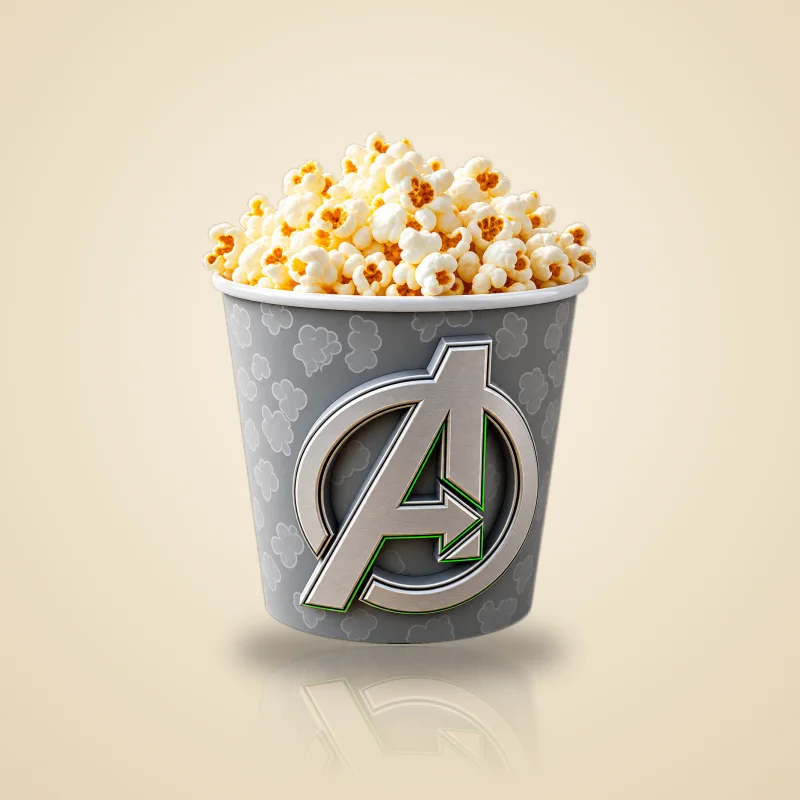
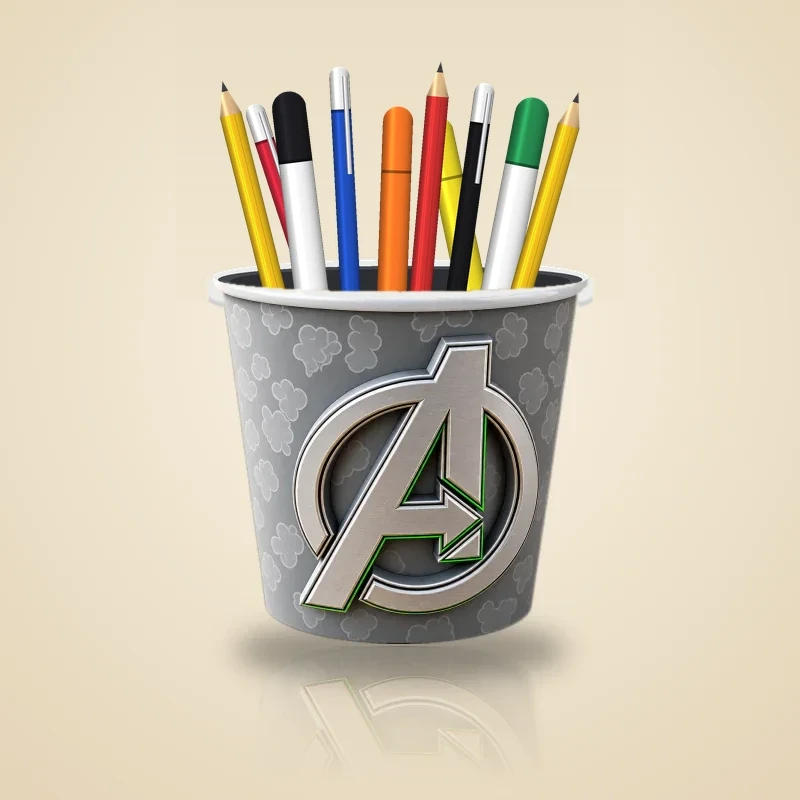
تحويل AVENGERS Popcorn Bucket إلى كوب أقلام أفنجرز وتخفيض سعره
- الاسم: كوب أقلام أفنجرز (AVENGERS Pen Holder)، القسم: إكسسوارات المكتب
- الصورة: أقلام بدل الفشار
- السعر: 79 مفرد / 62 جملة (كان 101/78، ويظهر مشطوبًا)

Claude-Session: https://claude.ai/code/session_017P9QyA7v2oMn6s2vRLUk4B

Changed region(s): [[0.25, 0.0625, 0.75, 0.375]]

diff --git a/index.html b/index.html
@@ -356,8 +356,8 @@ const COLORS=[["كما بالصورة",null],["أبيض","#f3f1ec"],["أسود",
 const OUT=new Set([9]); /* colours not in stock right now (9 = purple) */
 const DUCK="تعليقة سيارة أو ديكور طبلون", KS="ميدالية مفاتيح وستاند جوال", XB="إكسسوار مكينة xBloom";
 /* PRICES:START — generated from the invoicing-app formula (print file weight + time, shared settings). [single, wholesale(=set)] */
-const PRICE={"pcorn":[101,78],"gmug":[82,64],"d2":[23,18],"drip":[52,40],"knobs":[17,13],"xkit":[169,131],"hood":[28,22],"kcm":[35,27],"ttt":[48,38],"fncs":[56,44],"fish":[125,97],"disney":[37,29],"crown":[86,67],"d1":[84,66],"d4":[28,22],"d5":[18,14],"d6":[25,19],"skel":[26,21],"ltr":[87,68],"w1":[31,24],"abst":[138,107],"chips":[25,20],"clips":[35,30],"ghost":[117,91],"ks1":[23,18],"ks2":[27,21],"ks3":[22,17],"monk":[116,90],"pringles":[30,25],"vase":[117,91],"vase2":[59,46],"vase3":[27,21],"w2":[37,29],"w3":[75,59],"w4":[23,18],"w5":[40,31]};
-const OLD={"chips":57,"pringles":67,"clips":62};
+const PRICE={"pcorn":[79,62],"gmug":[82,64],"d2":[23,18],"drip":[52,40],"knobs":[17,13],"xkit":[169,131],"hood":[28,22],"kcm":[35,27],"ttt":[48,38],"fncs":[56,44],"fish":[125,97],"disney":[37,29],"crown":[86,67],"d1":[84,66],"d4":[28,22],"d5":[18,14],"d6":[25,19],"skel":[26,21],"ltr":[87,68],"w1":[31,24],"abst":[138,107],"chips":[25,20],"clips":[35,30],"ghost":[117,91],"ks1":[23,18],"ks2":[27,21],"ks3":[22,17],"monk":[116,90],"pringles":[30,25],"vase":[117,91],"vase2":[59,46],"vase3":[27,21],"w2":[37,29],"w3":[75,59],"w4":[23,18],"w5":[40,31]};
+const OLD={"pcorn":101,"chips":57,"pringles":67,"clips":62};
 /* PRICES:END */
 const ITEMS=[
  {id:"d2",cat:"إكسسوارات السيارة",name:"البطة الرايقة",use:DUCK},
@@ -392,7 +392,7 @@ const ITEMS=[
  {id:"fish",cat:"إكسسوارات ألعاب الفيديو",name:"كأس السمكة الأسطورية",use:"كأس سمكة ذهبية على قاعدة، قطعتان تركّبهما"},
  {id:"crown",cat:"إكسسوارات ألعاب الفيديو",name:"تاج الانتصار",use:"تاج الانتصار، ديكور أو هدية"},
  {id:"disney",cat:"الديكور",name:"لوحة ميكي وميني الجدارية",use:"لوحة جدارية بنقش ستنسل، تُثبت بلاصق"},
- {id:"pcorn",cat:"سناك وضيافة",name:"AVENGERS Popcorn Bucket",use:"دلو فشار بشعار أفنجرز، للسينما المنزلية والضيافة"},
+ {id:"pcorn",cat:"إكسسوارات المكتب",name:"كوب أقلام أفنجرز",use:"كوب أقلام بشعار أفنجرز، يرتّب مكتبك وهدية لمحبي مارفل"},
  {id:"gmug",cat:"الديكور",name:"كوب الجمجمة الصارخة",use:"كوب بوجه جمجمة وزخارف، للديكور أو حفظ الأقلام"},
  {id:"ltr",cat:"الديكور",name:"حرف باسمك",use:"حرف مع اسمك وقلوب وزهرة، والاسم حسب طلبك"}
 ];

diff --git a/sw.js b/sw.js
@@ -1,7 +1,7 @@
 // RAX3D shop: network first (always fresh), falls back to cache when offline.
 // v38: points.json is network-only (never cached), old caches are deleted on activate,
 // and 3D models (models/) are capped to the last 8 used so phones don't fill up.
-const C = 'rax3d-shop-v104', M = 'rax3d-models-v93', MAX_MODELS = 8;
+const C = 'rax3d-shop-v105', M = 'rax3d-models-v93', MAX_MODELS = 8;
 self.addEventListener('install', e => self.skipWaiting());
 self.addEventListener('activate', e => e.waitUntil(
   caches.keys().then(ks => Promise.all(ks.filter(k => k !== C && k !== M).map(k => caches.delete(k)))).then(() => self.clients.claim())
